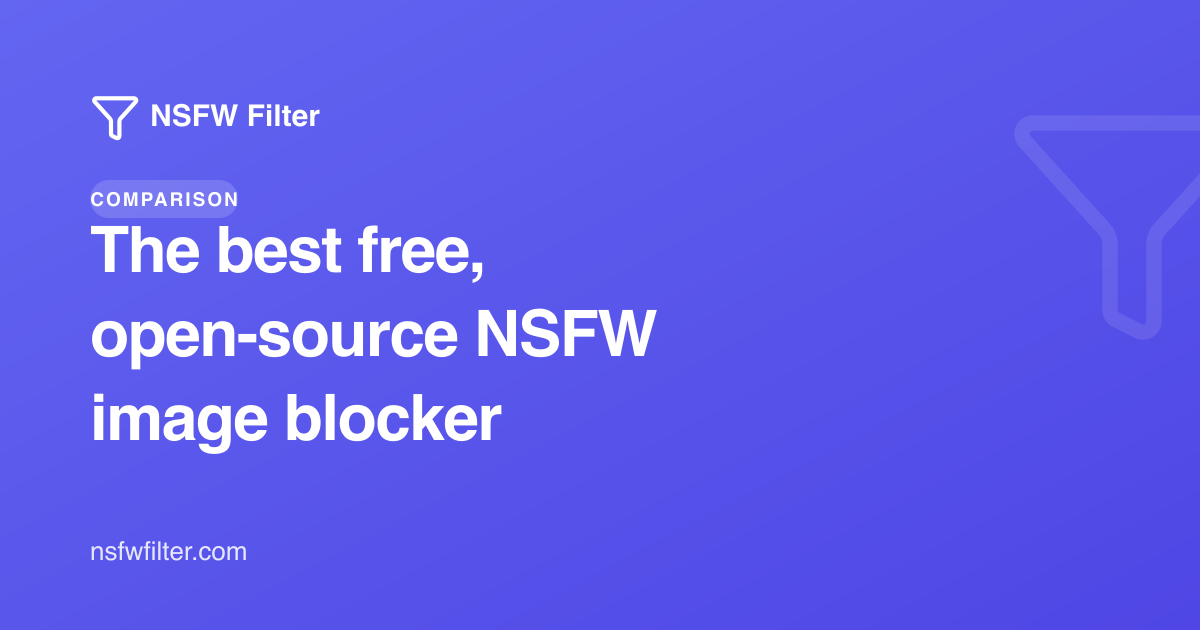
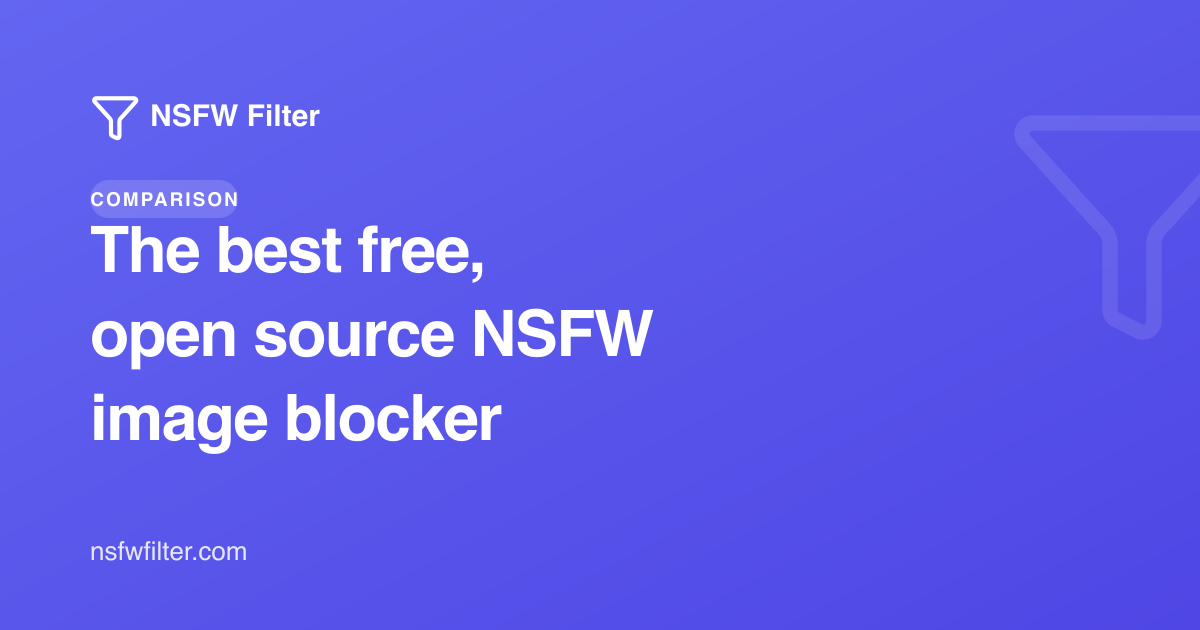
Rename blog section and fix open-source in cover art
The section holds guides and news (release notes, the Product Hunt post, a dev
writeup), so "Guides" undersold it and "News" undersold the how-tos. Call it "Blog",
which covers both, in the nav, footer, page title, and breadcrumb.

Also regenerated two cover images that still baked "open-source" with a hyphen into
the artwork, contradicting the "open source" spelling used everywhere else.

Changed region(s): [[0.185, 0.4825, 0.555, 0.573]]

diff --git a/layouts/partials/schema.html b/layouts/partials/schema.html
@@ -67,7 +67,7 @@
 {{- with $imgURL }}{{- $post = merge $post (dict "image" .) -}}{{- end -}}
 {{- $crumbs := slice
   (dict "@type" "ListItem" "position" 1 "name" "Home" "item" site.BaseURL)
-  (dict "@type" "ListItem" "position" 2 "name" "Guides" "item" (absURL "news/"))
+  (dict "@type" "ListItem" "position" 2 "name" "Blog" "item" (absURL "news/"))
   (dict "@type" "ListItem" "position" 3 "name" .Title "item" .Permalink)
 -}}
 {{- $breadcrumb := dict "@type" "BreadcrumbList" "itemListElement" $crumbs -}}

diff --git a/content/news/_index.md b/content/news/_index.md
@@ -1,6 +1,6 @@
 ---
-title: "Guides"
-subtitle: "How to block and blur explicit images in your browser, and how NSFW Filter works under the hood."
-description: "Guides on blocking explicit images in your browser: how NSFW Filter works on-device, how it compares to SafeSearch and paid blockers, and how to set it up on Chrome, Edge, Brave, and Opera."
+title: "Blog"
+subtitle: "Guides, comparisons, and release notes: how to block explicit images, and what's new in NSFW Filter."
+description: "The NSFW Filter blog: guides on blocking and blurring explicit images, how the on-device filter works, comparisons with SafeSearch and paid blockers, and release notes."
 draft: false
 ---
